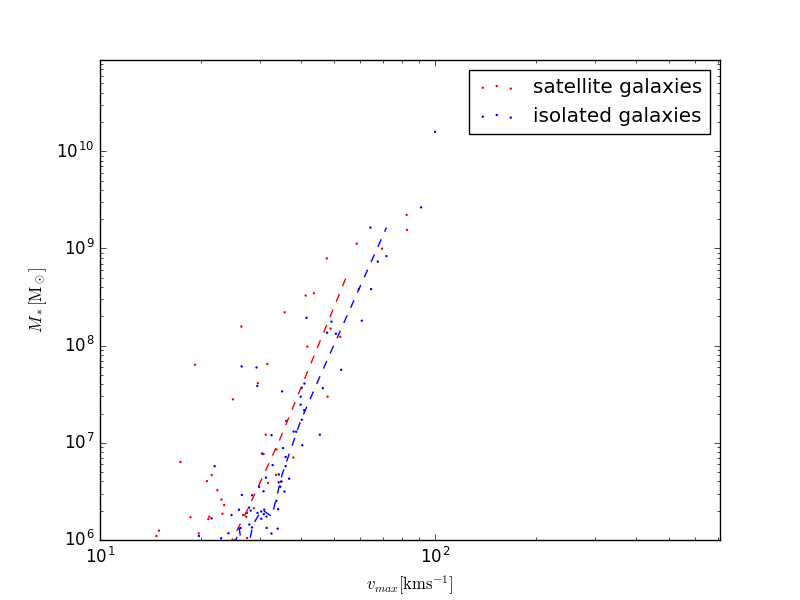
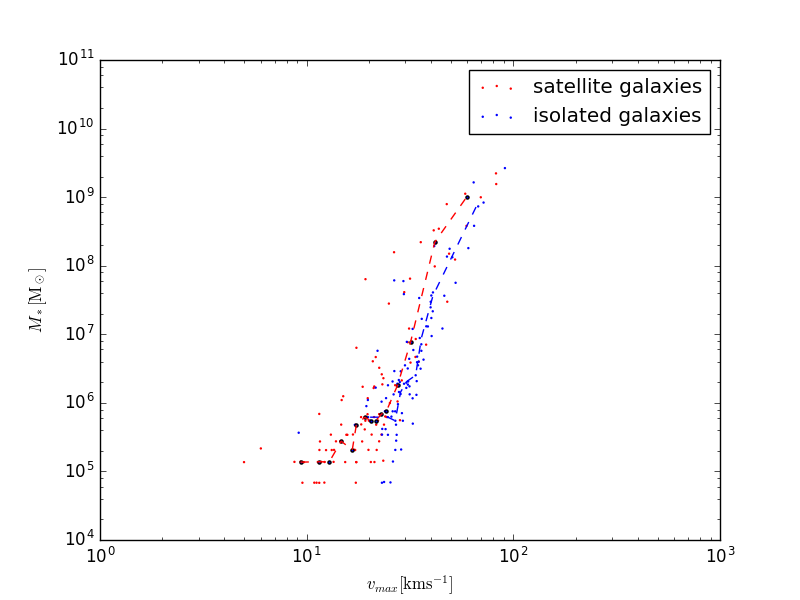
Added two new scripts for plots that also appear in the Lovell paper: Stellar mass vs. Vmax and cumulative radial distribution of haloes

diff --git a/Plots/PlotSubhaloData/plot_SM_vs_V1kpc.py b/Plots/PlotSubhaloData/plot_SM_vs_V1kpc.py
@@ -16,7 +16,7 @@ from read_dataset_dm_mass import read_dataset_dm_mass
 sys.path.insert(0, '/home/kassiili/SummerProject/practise-with-datasets/Plots/')
 from read_header import read_header
 
-class plot_Vmax_vs_V1kpc:
+class plot_starmass_vs_V1kpc:
 
     def calcVelocitiesAt1kpc(self):
         """ For each subhalo, calculate the circular velocity at 1kpc. """
@@ -98,15 +98,10 @@ class plot_Vmax_vs_V1kpc:
 
         data = {}
 
-        data['Vmax'] = read_subhaloData('Vmax', dataset=self.dataset)/100000  # cm/s to km/s
-
-        # Exclude unphysical haloes with Vmax non-positive:
-        mask = data['Vmax'] > 0
-
-        data['Vmax'] = data['Vmax'][mask]
-        data['COP'] = read_subhaloData('CentreOfPotential', dataset=self.dataset)[mask] * u.cm.to(u.kpc)
-        data['groupNumber'] = read_subhaloData('GroupNumber', dataset=self.dataset)[mask]
-        data['subGroupNumber'] = read_subhaloData('SubGroupNumber', dataset=self.dataset)[mask]
+        data['SM'] = read_subhaloData('Stars/Mass', dataset=self.dataset) * u.g.to(u.Msun)
+        data['COP'] = read_subhaloData('CentreOfPotential', dataset=self.dataset) * u.cm.to(u.kpc)
+        data['groupNumber'] = read_subhaloData('GroupNumber', dataset=self.dataset)
+        data['subGroupNumber'] = read_subhaloData('SubGroupNumber', dataset=self.dataset)
 
         return data
 
@@ -116,9 +111,9 @@ class plot_Vmax_vs_V1kpc:
         maskSat = self.subhaloData['subGroupNumber'] != 0
         maskIsol = self.subhaloData['subGroupNumber'] == 0
 
-        VmaxSat = self.subhaloData['Vmax'][maskSat]
+        SMSat = self.subhaloData['SM'][maskSat]
         V1kpcSat = self.subhaloData['V1kpc'][maskSat]
-        VmaxIsol = self.subhaloData['Vmax'][maskIsol]
+        SMIsol = self.subhaloData['SM'][maskIsol]
         V1kpcIsol = self.subhaloData['V1kpc'][maskIsol]
 
         fig, axes = plt.subplots()
@@ -126,41 +121,26 @@ class plot_Vmax_vs_V1kpc:
         axes.set_xscale('log')
         axes.set_yscale('log')
 
-        axes.scatter(V1kpcSat, VmaxSat, s=3, c='red', edgecolor='none', label='satellite galaxies')
-        axes.scatter(V1kpcIsol, VmaxIsol, s=3, c='blue', edgecolor='none', label='isolated galaxies')
+        axes.scatter(V1kpcSat, SMSat, s=3, c='red', edgecolor='none', label='satellite galaxies')
+        axes.scatter(V1kpcIsol, SMIsol, s=3, c='blue', edgecolor='none', label='isolated galaxies')
 
-        median = calc_median_trend(V1kpcSat, VmaxSat)
+        median = calc_median_trend(V1kpcSat, SMSat)
         axes.plot(median[0], median[1], c='red', linestyle='--')
 
-        median = calc_median_trend(V1kpcIsol, VmaxIsol)
+        median = calc_median_trend(V1kpcIsol, SMIsol)
         axes.plot(median[0], median[1], c='blue', linestyle='--')
 
-#        mask = self.subhaloData['V1kpc'] > self.subhaloData['Vmax']
-#        oddOnes = {}
-#        oddOnes['SGN'] = self.subhaloData['subGroupNumber'][mask]
-#        oddOnes['GN'] = self.subhaloData['groupNumber'][mask]
-#
-#        for gn, sgn in zip(oddOnes['GN'], oddOnes['SGN']):
-#            mask2 = np.logical_and(self.subhaloData['groupNumber'] == gn, self.subhaloData['subGroupNumber'] == sgn)
-#            axes.scatter(self.subhaloData['V1kpc'][mask2], self.subhaloData['Vmax'][mask2], s=5, c='green', edgecolor='none')
-#            print(gn, sgn)
-
-        # Plot identity function. No physically meaningful data point should lay below this line.
-        #x = np.arange(10,100)
-        #y = np.arange(10,100)
-        #axes.plot(x, y, c='black')
-
         plt.xlim(10, 110)
-        plt.ylim(10, 110)
+        plt.ylim(10**5, 10**11)
 
         axes.legend(loc=4)
         axes.set_xlabel('$v_{\mathrm{1kpc}}[\mathrm{km s^{-1}}]$')
-        axes.set_ylabel('$v_{\mathrm{max}}[\mathrm{km s^{-1}}]$')
+        axes.set_ylabel('$M_*[M_\odot]$')
 
         plt.show()
-        fig.savefig('Figures/Vmax_vs_V1kpc_withMedian_%s.png'%self.dataset)
+        fig.savefig('Figures/Starmass_vs_V1kpc_withMedian_%s.png'%self.dataset)
         plt.close()
 
 
-plot = plot_Vmax_vs_V1kpc(dataset='MR') 
+plot = plot_starmass_vs_V1kpc(dataset='MR') 
 plot.plot()

diff --git a/Plots/PlotSubhaloData/plot_cumulDistByVmax.py b/Plots/PlotSubhaloData/plot_cumulDistByVmax.py
@@ -35,19 +35,19 @@ class plot_subhalo_dist_vs_vmax:
 
         axes.set_xscale('log')
         axes.set_yscale('log')
-        axes.plot(self.maxVelocitiesSatLum, np.arange(1, self.maxVelocitiesSatLum.size + 1), c='lightblue', label='Luminous sat. galaxies')
-        axes.plot(self.maxVelocitiesSatDark, np.arange(1, self.maxVelocitiesSatDark.size + 1), c='blue', label='Dark sat. galaxies')
-        axes.plot(self.maxVelocitiesIsolLum, np.arange(1, self.maxVelocitiesIsolLum.size + 1), c='pink', label='Luminous isol. galaxies')
-        axes.plot(self.maxVelocitiesIsolDark, np.arange(1, self.maxVelocitiesIsolDark.size + 1), c='red', label='Dark isol. galaxies')
+        axes.plot(self.maxVelocitiesSatLum, np.arange(1, self.maxVelocitiesSatLum.size + 1), c='lightblue', label='Kirkkaat satelliittigalaksit')
+        axes.plot(self.maxVelocitiesSatDark, np.arange(1, self.maxVelocitiesSatDark.size + 1), c='blue', label='Pimeät satelliittigalaksit')
+        axes.plot(self.maxVelocitiesIsolLum, np.arange(1, self.maxVelocitiesIsolLum.size + 1), c='pink', label='Kirkkaat eristetyt galaksit')
+        axes.plot(self.maxVelocitiesIsolDark, np.arange(1, self.maxVelocitiesIsolDark.size + 1), c='red', label='Pimeät eristetyt galaksit')
 
         axes.legend()
-        axes.set_xlabel('$v_{max} [\mathrm{km s^{-1}}]$')
-        axes.set_ylabel('$N(>v_{max})$')
-        axes.set_title('Distribution of luminous subhaloes as a function of $v_{max}$')
+        axes.set_xlabel('$v_{\mathrm{max}} [\mathrm{km s^{-1}}]$')
+        axes.set_ylabel('$N(>v_{\mathrm{max}})$')
+        #axes.set_title('Distribution of luminous subhaloes as a function of $v_{max}$')
 
-        plt.show()
-#        plt.savefig('Dist-of-subhaloes-as-function-of-Vmax_%s.png'%self.dataset)
-#        plt.close()
+#        plt.show()
+        plt.savefig('Figures/Dist-of-subhaloes_vs_Vmax_%s.png'%self.dataset)
+        plt.close()
 
 plot = plot_subhalo_dist_vs_vmax(dataset='MR') 
 plot.plot()

diff --git a/Plots/PlotSubhaloData/plot_cumulRadialDist.py b/Plots/PlotSubhaloData/plot_cumulRadialDist.py
@@ -1,0 +1,57 @@
+import sys
+import numpy as np
+import h5py
+import time
+import astropy.units as u
+import matplotlib.pyplot as plt
+import matplotlib
+from read_subhaloData import read_subhaloData
+
+sys.path.insert(0, '/home/kassiili/SummerProject/practise-with-datasets/Plots/')
+from read_header import read_header
+
+class plot_subhalo_dist_vs_vmax:
+
+    def __init__(self, dataset='LR'):
+        self.dataset = dataset
+
+        gns = read_subhaloData('GroupNumber', dataset=self.dataset)
+        sgns = read_subhaloData('SubGroupNumber', dataset=self.dataset)
+        COPs = read_subhaloData('CentreOfPotential', dataset=self.dataset) * u.cm.to(u.kpc)
+        SM = read_subhaloData('Stars/Mass', dataset=self.dataset)
+
+        # Get COP of the central halo:
+        centre = COPs[np.logical_and(gns == 1, sgns == 0)]
+
+        # Calculate distances to centre:
+        r = np.linalg.norm(COPs - centre, axis=1)
+
+        mask = np.logical_and(gns == 1, sgns != 0)
+        r = r[mask]
+        SM = SM[mask]
+
+        self.rLum = r[SM > 0]
+        self.rDark = r[SM == 0]
+
+        # Sort distances in ascending order:
+        self.rLum.sort()
+        self.rDark.sort()
+
+    def plot(self):
+        fig, axes = plt.subplots()
+
+        axes.plot(self.rLum, np.arange(1,self.rLum.size+1)/self.rLum.size, c="black")
+        axes.plot(self.rDark, np.arange(1,self.rDark.size+1)/self.rDark.size, c="grey")
+
+        axes.legend()
+        axes.set_xlabel('$r[\mathrm{kpc}]$')
+        axes.set_ylabel('$N(<r)/N_\mathrm{tot}$')
+        #axes.set_title('Distribution of luminous subhaloes as a function of $v_{max}$')
+
+        plt.show()
+#        plt.savefig('Figures/Dist-of-subhaloes_vs_Vmax_%s.png'%self.dataset)
+#        plt.close()
+
+plot = plot_subhalo_dist_vs_vmax(dataset='MR') 
+plot.plot()
+

diff --git a/Plots/PlotSubhaloData/plot_SM_vs_Vmax.py b/Plots/PlotSubhaloData/plot_SM_vs_Vmax.py
@@ -26,8 +26,7 @@ class plot_SM_vs_Vmax:
         self.stellarMassesIsol = stellarMasses[maskIsol]
 
     def plot(self):
-        fig = plt.figure()
-        axes = plt.gca()
+        fig, axes = plt.subplots()
 
         axes.set_xscale('log')
         axes.set_yscale('log')
@@ -35,8 +34,9 @@ class plot_SM_vs_Vmax:
         axes.scatter(self.maxVelocitiesSat, self.stellarMassesSat, s=3, c='red', edgecolor='none', label='satellite galaxies')
         axes.scatter(self.maxVelocitiesIsol, self.stellarMassesIsol, s=3, c='blue', edgecolor='none', label='isolated galaxies')
 
-        median = calc_median_trend(self.maxVelocitiesSat, self.stellarMassesSat)
+        median = calc_median_trend(self.maxVelocitiesSat, self.stellarMassesSat, points_per_bar=7)
         axes.plot(median[0], median[1], c='red', linestyle='--')
+        axes.scatter(median[0], median[1], s=5)
 
         median = calc_median_trend(self.maxVelocitiesIsol, self.stellarMassesIsol)
         axes.plot(median[0], median[1], c='blue', linestyle='--')
@@ -47,7 +47,7 @@ class plot_SM_vs_Vmax:
         #axes.set_title('Stellar mass of luminous subhaloes')
 
         plt.show()
-#        plt.savefig('Figures/SM_vs_Vmax_%s.png'%self.dataset)
+        fig.savefig('Figures/SM_vs_Vmax_%s.png'%self.dataset)
 #        plt.close()
 
 

diff --git a/Plots/PlotSubhaloData/plot_VmaxRadius_vs_Vmax.py b/Plots/PlotSubhaloData/plot_VmaxRadius_vs_Vmax.py
@@ -48,9 +48,9 @@ class plot_Rmax_vs_Vmax:
         axes.set_xlabel('$v_{\mathrm{max}}[\mathrm{km s^{-1}}]$')
         axes.set_ylabel('$r_{\mathrm{max}}[\mathrm{kpc}]$')
 
-#        plt.show()
-        plt.savefig('Figures/rmax_vs_vmax_%s.png'%self.dataset)
-        plt.close()
+        plt.show()
+        #plt.savefig('Figures/rmax_vs_vmax_%s.png'%self.dataset)
+        #plt.close()
 
 slice = plot_Rmax_vs_Vmax(dataset='MR')
 slice.plot()

diff --git a/Plots/PlotSubhaloData/calc_median.py b/Plots/PlotSubhaloData/calc_median.py
@@ -1,9 +1,10 @@
 import numpy as np
 
-def calc_median_trend(x, y, bars=10):
+def calc_median_trend(x, y, points_per_bar=10):
     xy = np.vstack([x,y])
     xy = xy[:,xy[0,:].argsort()]
     datapoints = xy[0,:].size
+    bars = datapoints//points_per_bar
 
     #Excĺude first elements (if necessary) to allow reshaping:
     if (datapoints%bars != 0):
